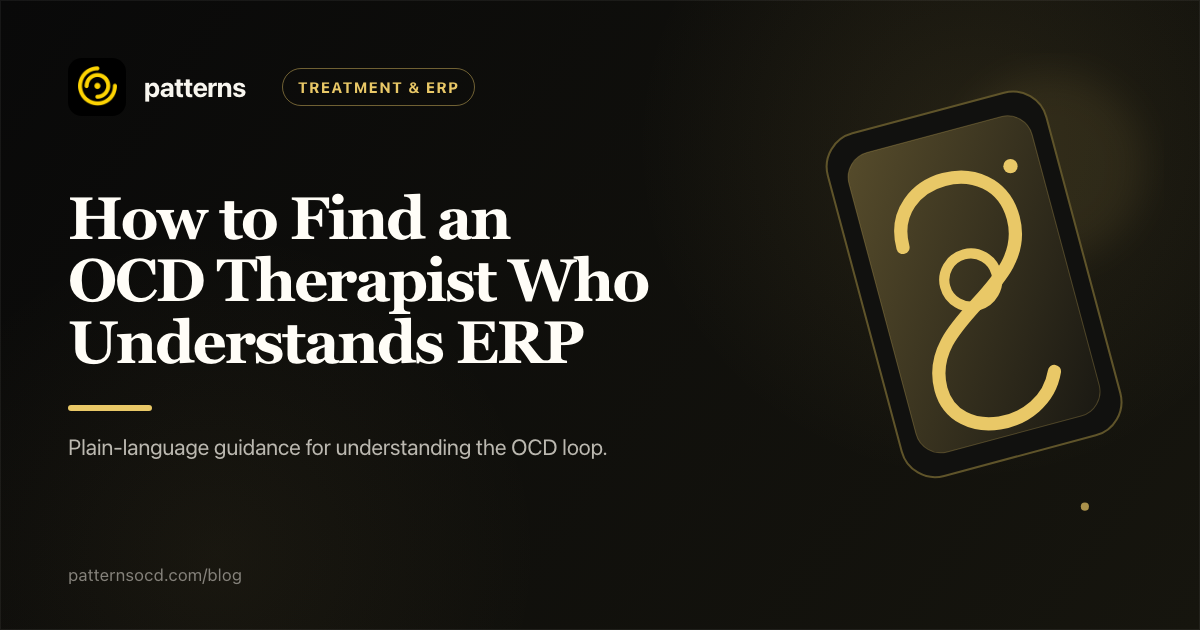
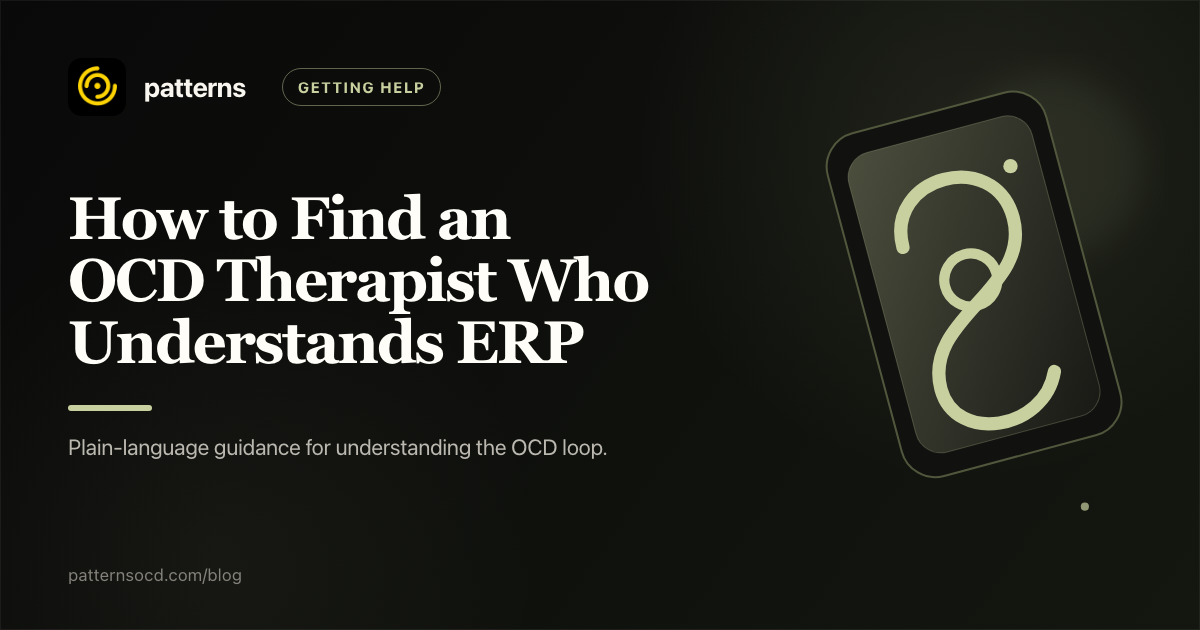
Add Getting Help blog category

diff --git a/website/e2e/blog-categories.spec.ts b/website/e2e/blog-categories.spec.ts
@@ -1,0 +1,38 @@
+import { expect, test } from '@playwright/test';
+
+const gettingHelpArticles = [
+  'what-happens-during-an-ocd-assessment',
+  'how-to-find-an-ocd-therapist',
+  'medication-for-ocd',
+  'what-to-expect-first-erp-sessions'
+];
+
+test('offers six blog categories and a populated Getting Help collection', async ({ page, request }) => {
+  await page.goto('/blog');
+  const categoryNav = page.getByRole('navigation', { name: 'Browse the OCD information library' });
+  await expect(categoryNav.getByRole('link')).toHaveCount(6);
+  await categoryNav.getByRole('link', { name: /Getting Help/ }).click();
+
+  await expect(page).toHaveURL(/\/learn\/getting-help$/);
+  await expect(page.getByRole('heading', { level: 1, name: 'Getting Help' })).toBeVisible();
+  await expect(page.locator('.post-card')).toHaveCount(4);
+
+  for (const slug of gettingHelpArticles) {
+    await expect(page.locator(`.post-card h2 a[href="/blog/${slug}"]`)).toHaveCount(1);
+    const article = await request.get(`/blog/${slug}`);
+    expect(article.ok(), slug).toBe(true);
+    expect(await article.text(), slug).toContain('href="/learn/getting-help"');
+  }
+
+  const sitemap = await (await request.get('/sitemap.xml')).text();
+  expect(sitemap).toContain('https://patternsocd.com/learn/getting-help');
+});
+
+test('keeps all six library cards in the viewport', async ({ page }) => {
+  await page.goto('/learn');
+  await expect(page.locator('.category-card')).toHaveCount(6);
+  await expect(page.locator('.category-card .explore[href="/learn/getting-help"]')).toBeVisible();
+  expect(
+    await page.evaluate(() => document.documentElement.scrollWidth <= window.innerWidth)
+  ).toBe(true);
+});

diff --git a/website/src/routes/learn/+page.svelte b/website/src/routes/learn/+page.svelte
@@ -13,7 +13,7 @@
       '@type': 'CollectionPage',
       name: 'OCD Information Library',
       description:
-        'Evidence-led OCD guides and lived-experience essays organized around recognizing OCD, themes, treatment, daily life, and personal stories.',
+        'Evidence-led OCD guides and lived-experience essays organized around recognizing OCD, themes, getting help, treatment, daily life, and personal stories.',
       url: links.library,
       isPartOf: { '@type': 'WebSite', name: 'Patterns', url: links.site },
       mainEntity: {
@@ -164,10 +164,6 @@
     background: var(--bg);
   }
 
-  .category-card:last-child {
-    grid-column: 1 / -1;
-  }
-
   .card-head {
     display: flex;
     align-items: flex-start;
@@ -274,8 +270,5 @@
       grid-template-columns: 1fr;
     }
 
-    .category-card:last-child {
-      grid-column: auto;
-    }
   }
 </style>

diff --git a/website/src/lib/data/blog.test.ts b/website/src/lib/data/blog.test.ts
@@ -136,7 +136,16 @@ describe('blog posts', () => {
       expect(getBlogCategory(post.category), post.slug).toBeDefined();
       expect(['evidence-guide', 'personal-essay'], post.slug).toContain(post.contentType);
     }
-    expect(blogCategories.map((category) => category.slug)).toHaveLength(5);
+    expect(blogCategories.map((category) => category.slug)).toHaveLength(6);
+    expect(blogCategories.map((category) => category.slug)).toContain('getting-help');
+    for (const slug of [
+      'what-happens-during-an-ocd-assessment',
+      'how-to-find-an-ocd-therapist',
+      'medication-for-ocd',
+      'what-to-expect-first-erp-sessions'
+    ]) {
+      expect(getPost(slug)?.category, slug).toBe('getting-help');
+    }
   });
 
   it('resolves every manually listed related slug', () => {

diff --git a/website/src/lib/data/blog.ts b/website/src/lib/data/blog.ts
@@ -48,6 +48,14 @@ export const blogCategories = [
       'OCD can attach to almost anything a person values. These guides focus on the shared cycle underneath different themes, including the compulsions that are easy to miss.'
   },
   {
+    slug: 'getting-help',
+    label: 'Getting Help',
+    description:
+      'Find out what an OCD assessment involves, how to choose informed care, and what early treatment may look like.',
+    intro:
+      'Considering professional support? These guides cover assessment, finding an OCD-informed therapist, discussing medication, and starting ERP. They can help you prepare questions, not diagnose you or choose treatment for you.'
+  },
+  {
     slug: 'treatment-erp',
     label: 'Treatment & ERP',
     description:

diff --git a/website/src/routes/sitemap.xml/+server.ts b/website/src/routes/sitemap.xml/+server.ts
@@ -62,7 +62,7 @@ const staticEntries: Entry[] = [
   { path: 'erp', lastmod: STATIC_LASTMOD, changefreq: 'monthly', priority: '0.8' },
   { path: 'cbt', lastmod: STATIC_LASTMOD, changefreq: 'monthly', priority: '0.8' },
   { path: 'toolkit', lastmod: STATIC_LASTMOD, changefreq: 'monthly', priority: '0.8' },
-  { path: 'learn', lastmod: STATIC_LASTMOD, changefreq: 'weekly', priority: '0.9' },
+  { path: 'learn', lastmod: '2026-10-20', changefreq: 'weekly', priority: '0.9' },
   {
     path: 'about/aftaab-siddiqui',
     lastmod: STATIC_LASTMOD,

diff --git a/website/EDITORIAL_ROADMAP.md b/website/EDITORIAL_ROADMAP.md
@@ -20,16 +20,16 @@ This queue supports one carefully sourced article each week. Do not publish a dr
 | 1 | Do I Have OCD or Just Intrusive Thoughts? Understanding the Difference | Recognizing OCD | Does this pattern justify an OCD assessment? | Published |
 | 2 | OCD Avoidance: When Staying Away Becomes a Compulsion | Recognizing OCD | Can avoidance function like a ritual? | Published |
 | 3 | OCD Guilt and Shame: Why a Feeling Is Not Evidence | Living With OCD | Why does guilt feel like proof? | Published |
-| 4 | What Happens During an OCD Assessment? | Recognizing OCD | What will a clinician ask and how can I prepare? | Published |
+| 4 | What Happens During an OCD Assessment? | Getting Help | What will a clinician ask and how can I prepare? | Published |
 | 5 | Existential OCD: When Life's Biggest Questions Become a Loop | OCD Themes | How is existential doubt turned into a compulsion cycle? | Published |
 | 6 | Health OCD vs Health Anxiety: What Is the Difference? | OCD Themes | What distinguishes the response patterns? | Published |
 | 7 | Sensorimotor OCD: When You Cannot Stop Noticing Your Body | OCD Themes | Why does attention become stuck on an automatic sensation? | Published |
 | 8 | Just Right OCD: Perfectionism, Repeating, and Incompleteness | OCD Themes | What is the difference between a preference and a driven ritual? | Published |
 | 9 | Responsibility OCD: Feeling Responsible for Preventing Harm | OCD Themes | Why does possibility feel like personal responsibility? | Published |
-| 10 | How to Find an OCD Therapist Who Understands ERP | Treatment & ERP | How can I tell whether a therapist understands ERP? | Published |
-| 11 | What to Expect in Your First ERP Sessions | Treatment & ERP | What happens before and during early ERP work? | Published |
+| 10 | How to Find an OCD Therapist Who Understands ERP | Getting Help | How can I tell whether a therapist understands ERP? | Published |
+| 11 | What to Expect in Your First ERP Sessions | Getting Help | What happens before and during early ERP work? | Published |
 | 12 | OCD Flare-Up or Relapse? How Recovery Really Looks | Living With OCD | Does a difficult week erase recovery progress? | Published |
-| 13 | OCD Medication: SSRIs, ERP, and What to Expect | Treatment & ERP | How does OCD medication fit with ERP, and how long can it take to help? | Published |
+| 13 | OCD Medication: SSRIs, ERP, and What to Expect | Getting Help | How does OCD medication fit with ERP, and how long can it take to help? | Published |
 | 14 | Can OCD Go Away? What Recovery Actually Means | Living With OCD | Can symptoms improve or remit, and what does recovery mean? | Published |
 | 15 | How to Support Someone With OCD Without Feeding the Cycle | Living With OCD | How can supporters validate distress without joining compulsions? | Published |
 | 16 | What Causes OCD? Genetics, Brain, Learning, and Stress | Recognizing OCD | What is known about OCD causes, risks, triggers, and maintenance? | Published |

diff --git a/website/src/content/blog/medication-for-ocd.md b/website/src/content/blog/medication-for-ocd.md
@@ -5,7 +5,7 @@ date: '2026-09-18'
 updated: '2026-09-18'
 readingMinutes: 10
 excerpt: 'Medication for OCD is usually a gradual, clinician-guided process rather than a quick test. Here is how SSRIs fit with ERP, what an adequate trial can involve, and what to discuss with a prescriber.'
-category: treatment-erp
+category: getting-help
 contentType: evidence-guide
 draft: false
 tags: [ocd-basics, erp]

diff --git a/website/src/content/blog/what-happens-during-an-ocd-assessment.md b/website/src/content/blog/what-happens-during-an-ocd-assessment.md
@@ -5,7 +5,7 @@ date: '2026-08-22'
 updated: '2026-08-22'
 readingMinutes: 10
 excerpt: 'An OCD assessment is not an exam you pass by describing the thought correctly. It is a conversation about the pattern: what shows up, what you do next, and what it costs.'
-category: recognizing-ocd
+category: getting-help
 contentType: evidence-guide
 draft: false
 tags: [ocd-basics, erp]

diff --git a/website/src/content/blog/what-to-expect-first-erp-sessions.md b/website/src/content/blog/what-to-expect-first-erp-sessions.md
@@ -5,7 +5,7 @@ date: '2026-09-13'
 updated: '2026-09-13'
 readingMinutes: 9
 excerpt: 'Early ERP is usually quieter than people imagine: mapping the loop, agreeing on goals, building a hierarchy, and trying a planned first exercise together.'
-category: treatment-erp
+category: getting-help
 contentType: evidence-guide
 draft: false
 tags: [erp, ocd-basics]

diff --git a/website/src/content/blog/how-to-find-an-ocd-therapist.md b/website/src/content/blog/how-to-find-an-ocd-therapist.md
@@ -5,7 +5,7 @@ date: '2026-09-13'
 updated: '2026-09-13'
 readingMinutes: 9
 excerpt: 'A licence tells you someone can practise therapy. A few direct questions can tell you whether they understand OCD and actually use ERP.'
-category: treatment-erp
+category: getting-help
 contentType: evidence-guide
 draft: false
 tags: [erp, ocd-basics]
